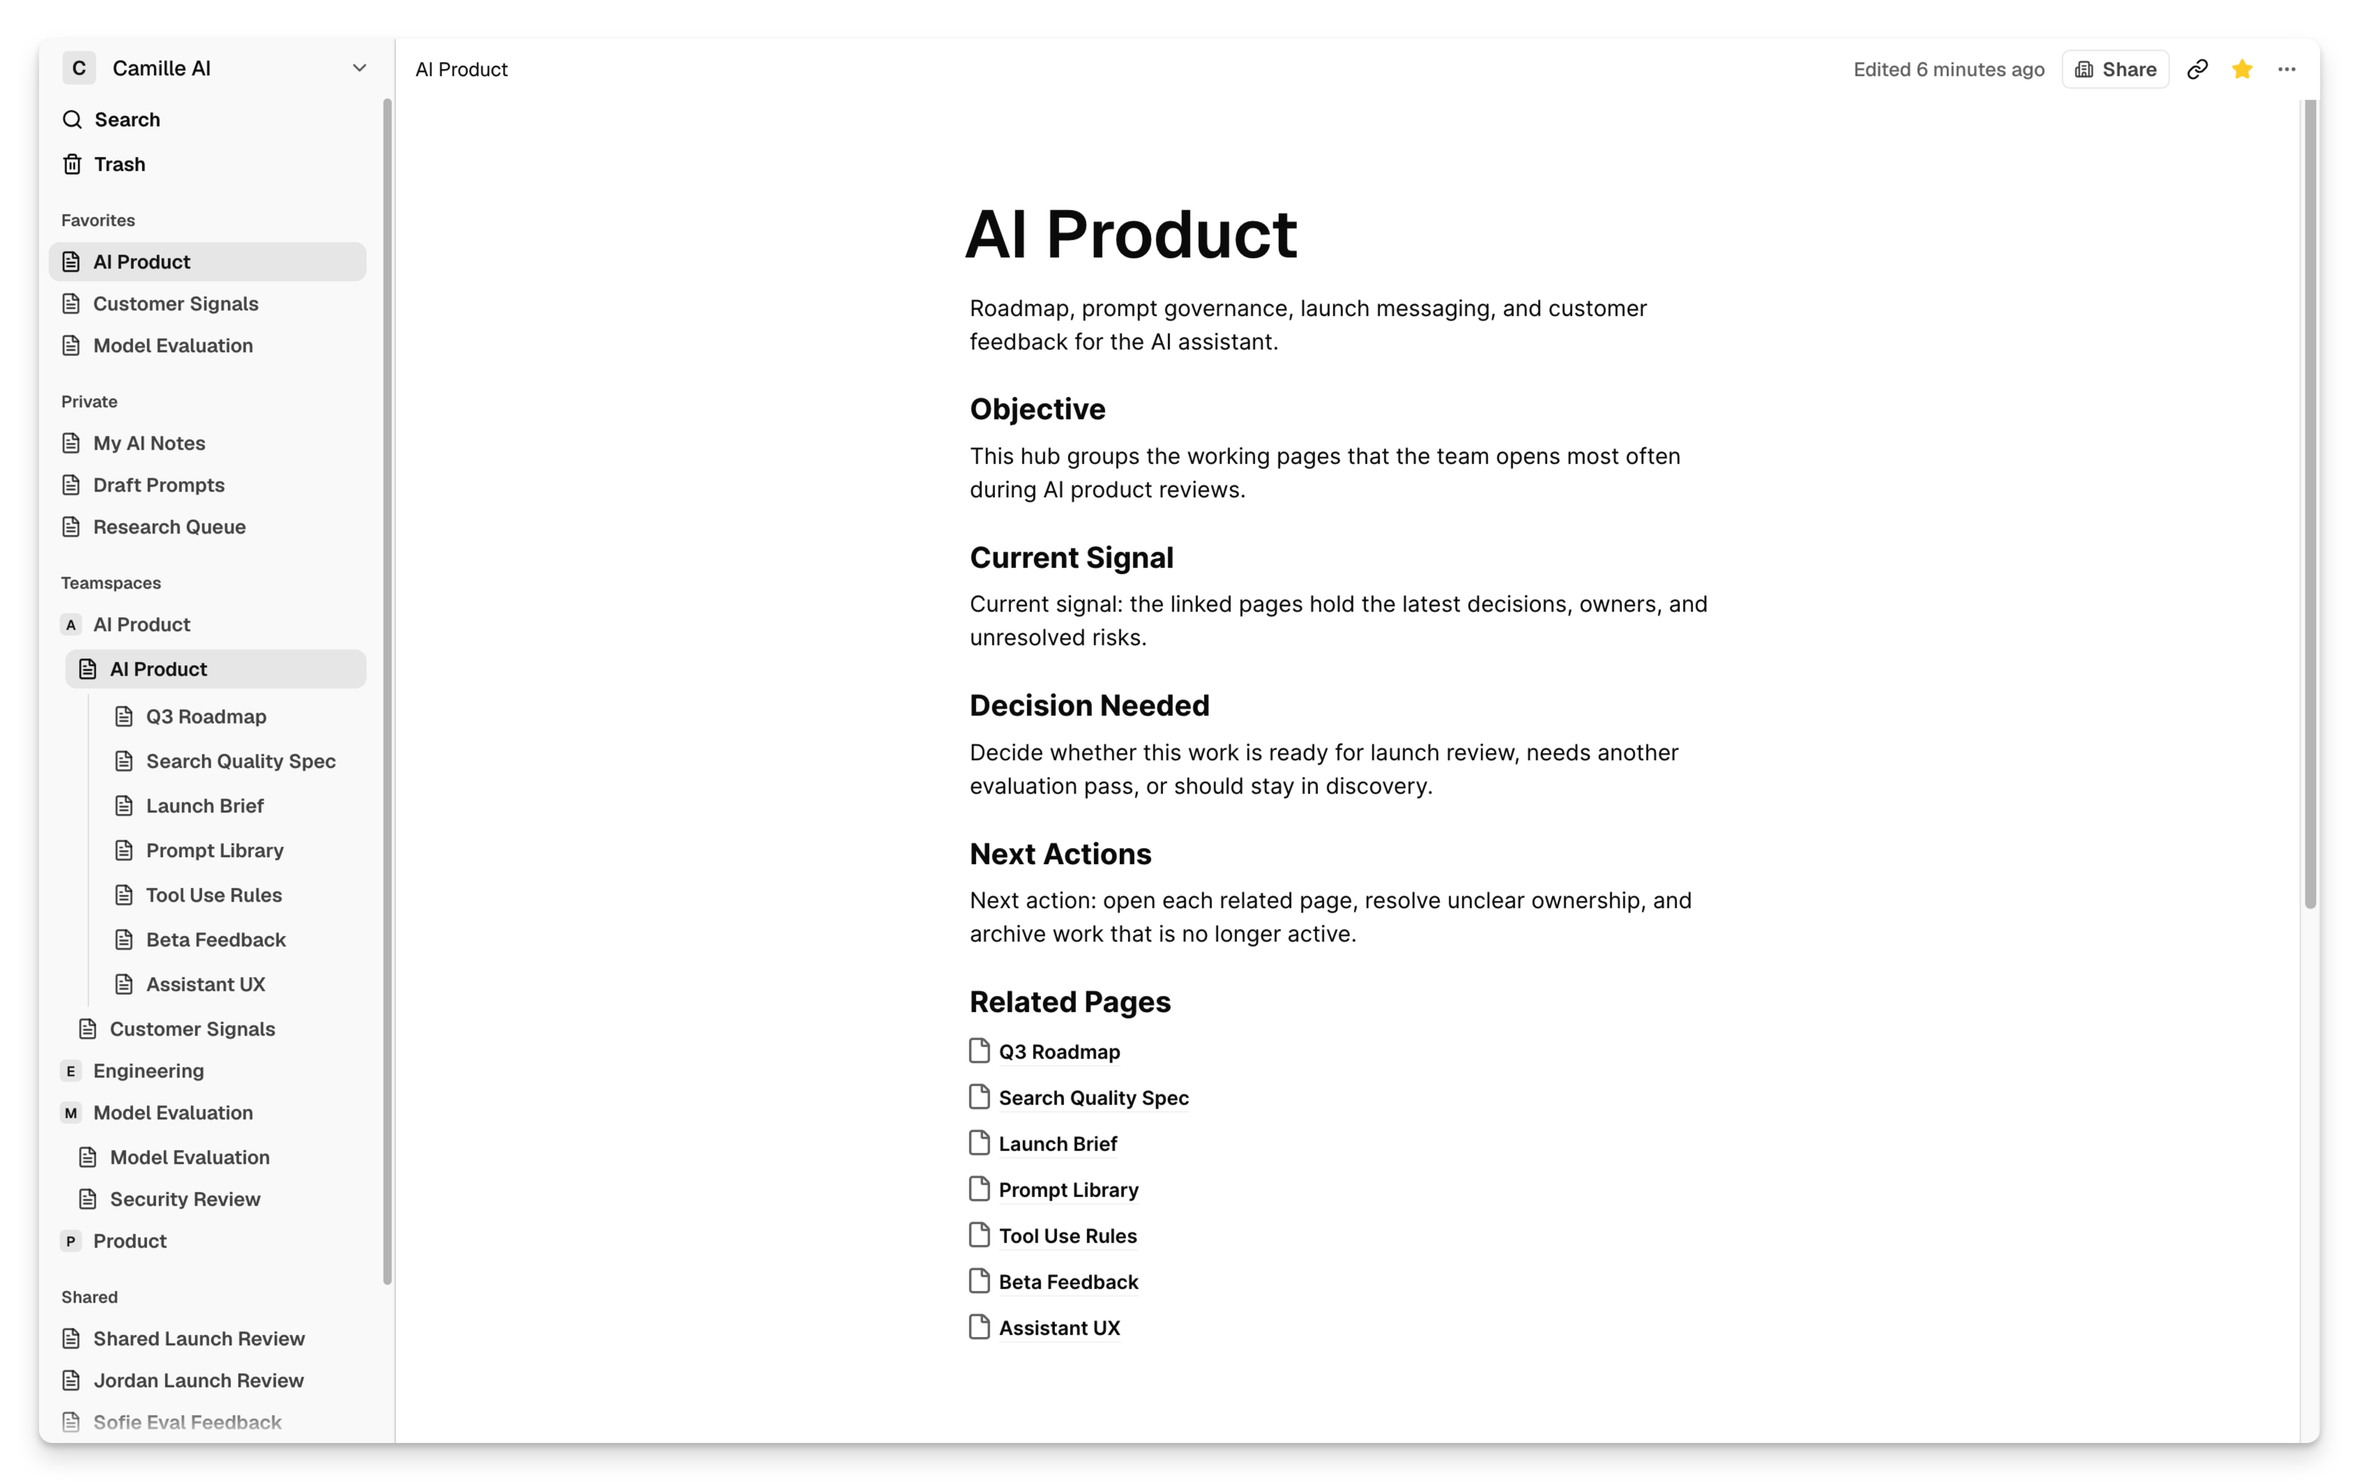
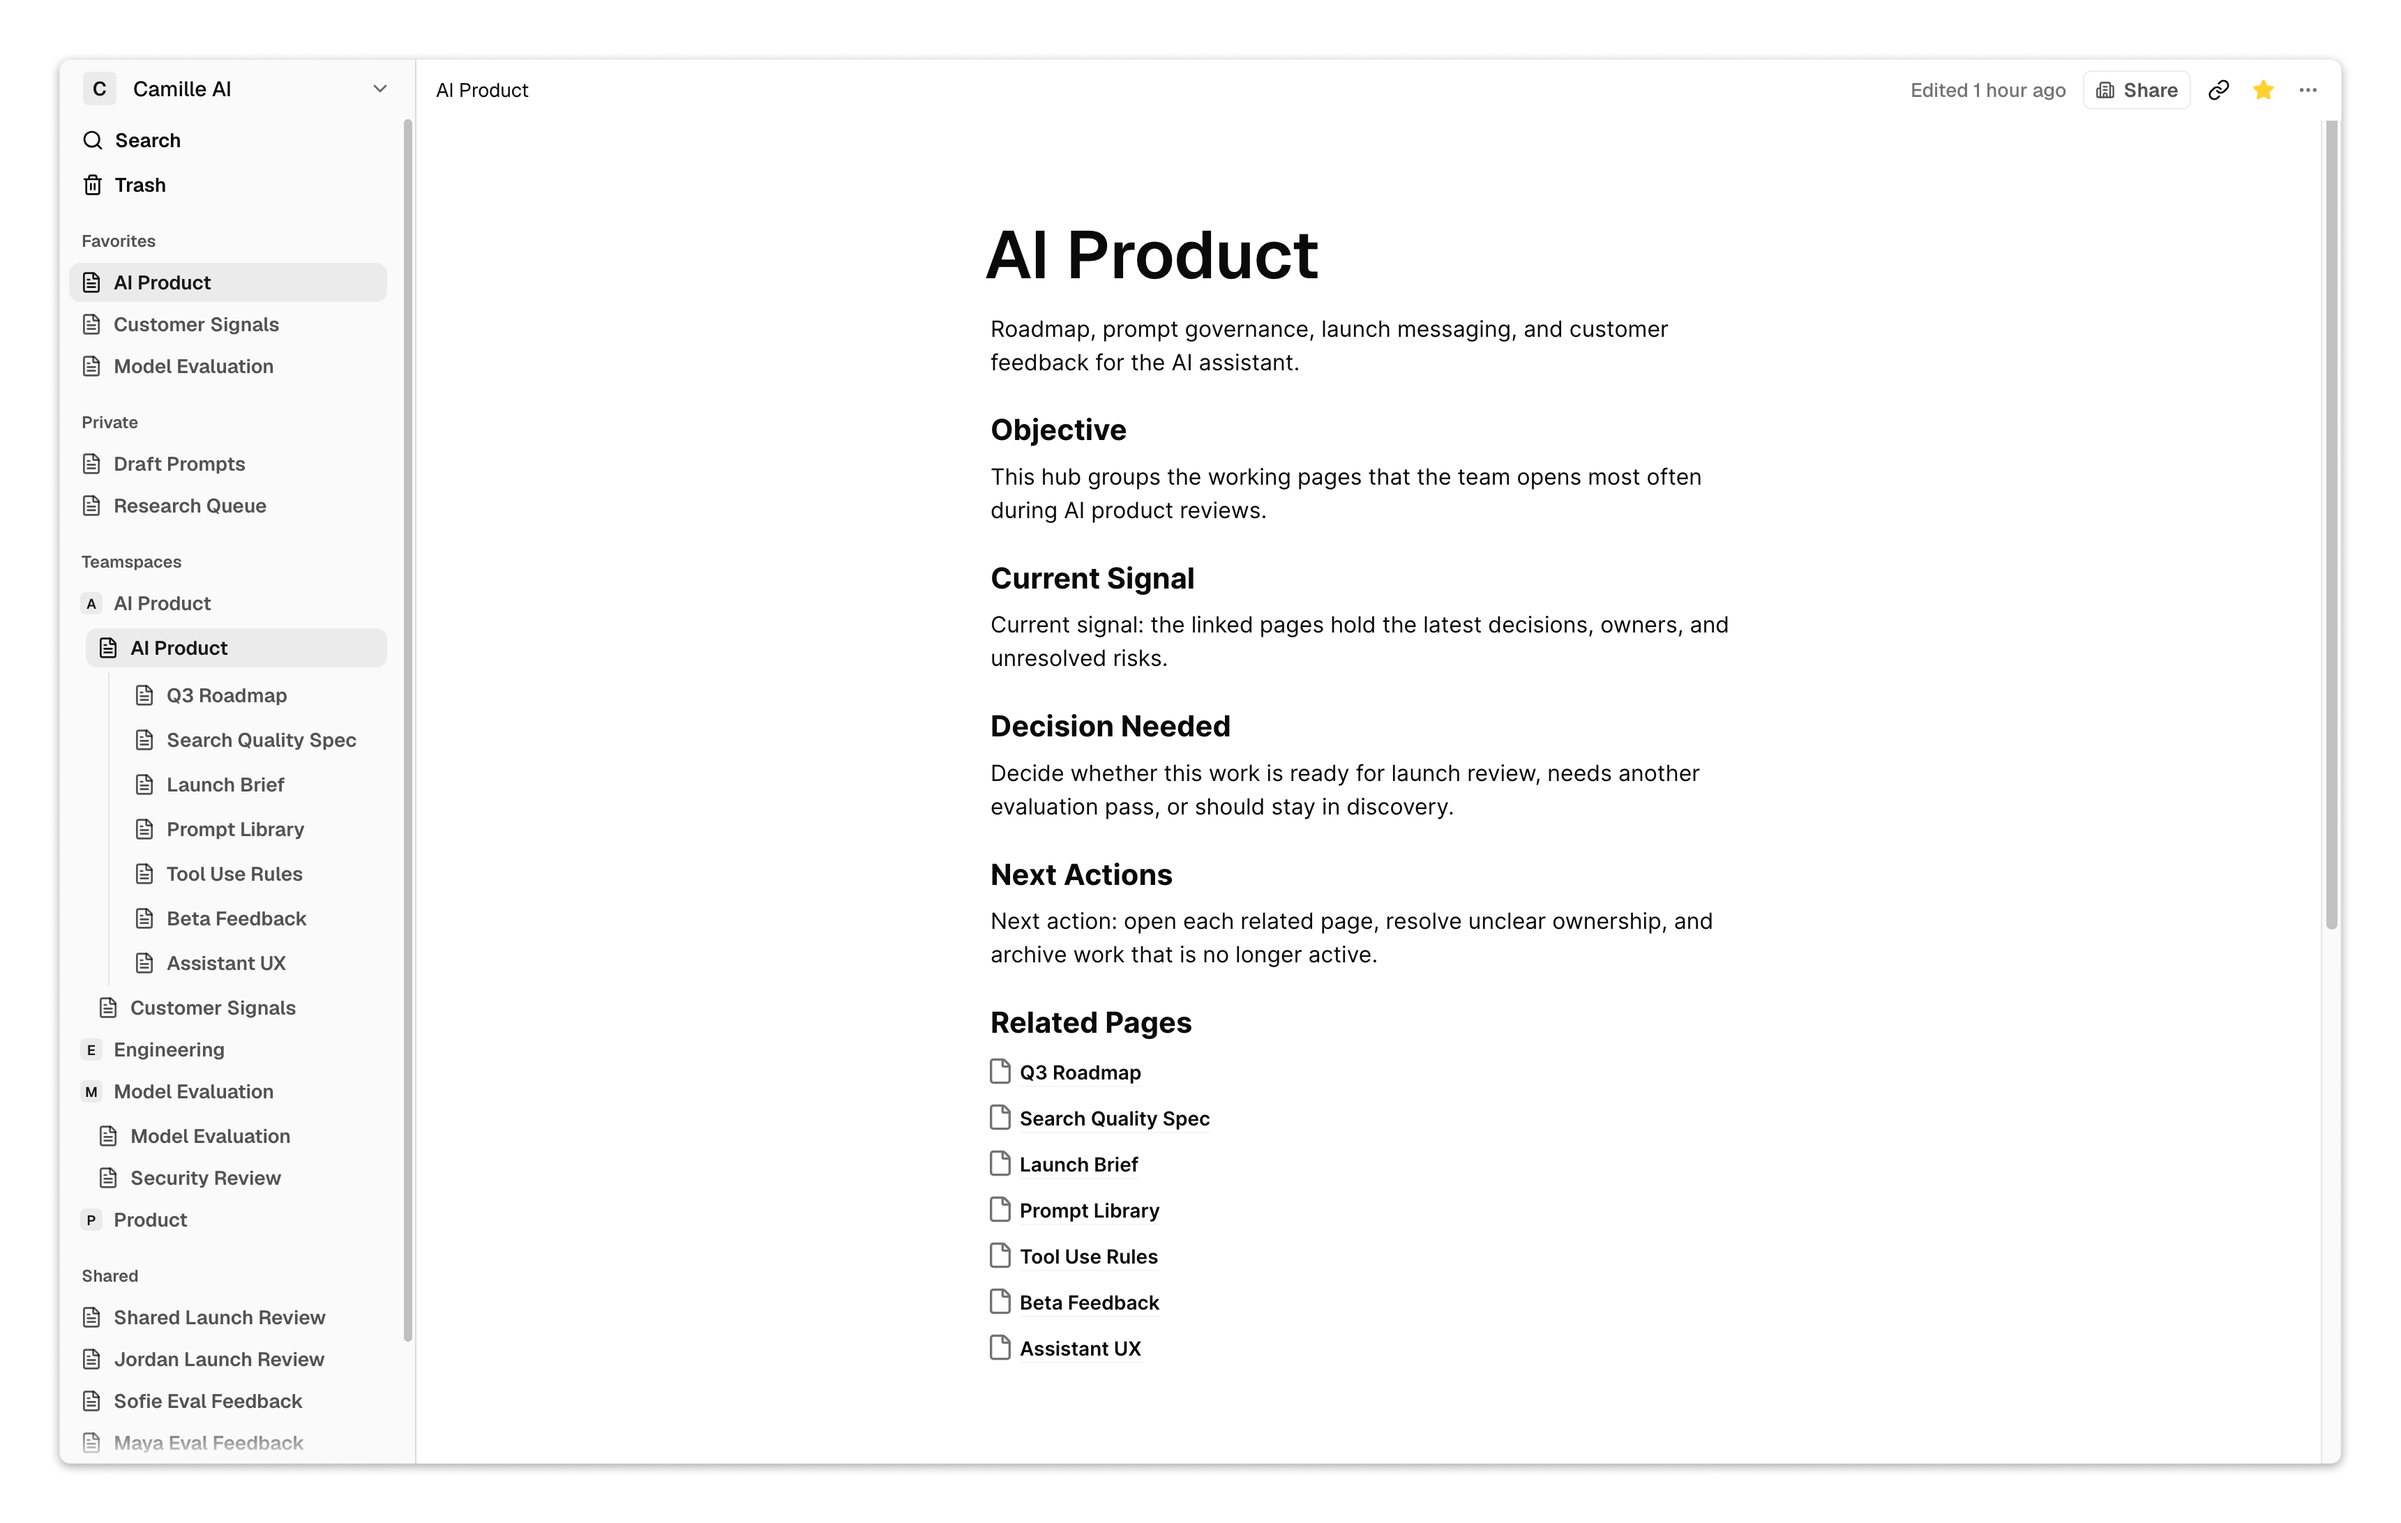
feat(marketing): refresh landing screenshot presentation

diff --git a/apps/marketing/src/app/page.tsx b/apps/marketing/src/app/page.tsx
@@ -9,11 +9,11 @@ import { cn } from '@shared/lib/utils';
 
 export default function HomePage() {
   return (
-    <main className="px-4 sm:px-6">
+    <main className="px-4 sm:px-6 pb-20">
       <div className="mx-auto max-w-6xl">
         <Navigate />
 
-        <div className="mx-auto max-w-lg py-20 text-center md:pt-28">
+        <div className="mx-auto max-w-lg pt-20 text-center md:pt-28">
           <h1 className="mb-4 px-12 text-5xl font-bold">
             The simplest way to keep notes
           </h1>
@@ -36,8 +36,8 @@ export default function HomePage() {
           width={3383}
           height={2125}
           alt="Camille app workspace"
-          quality={100}
           priority
+          className='mt-10'
         />
       </div>
     </main>
